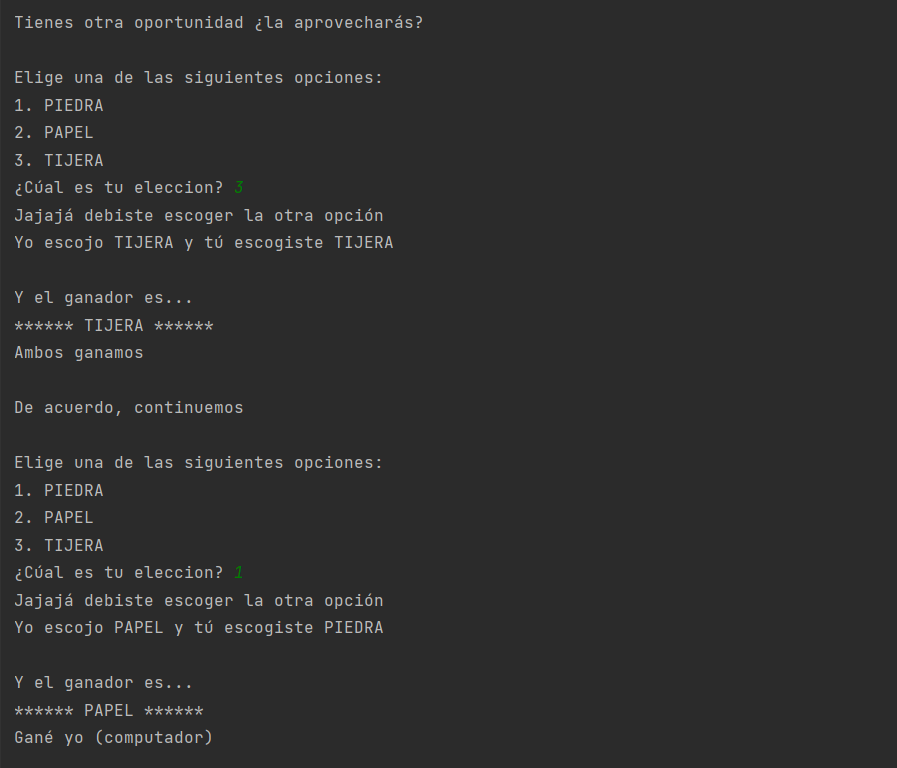
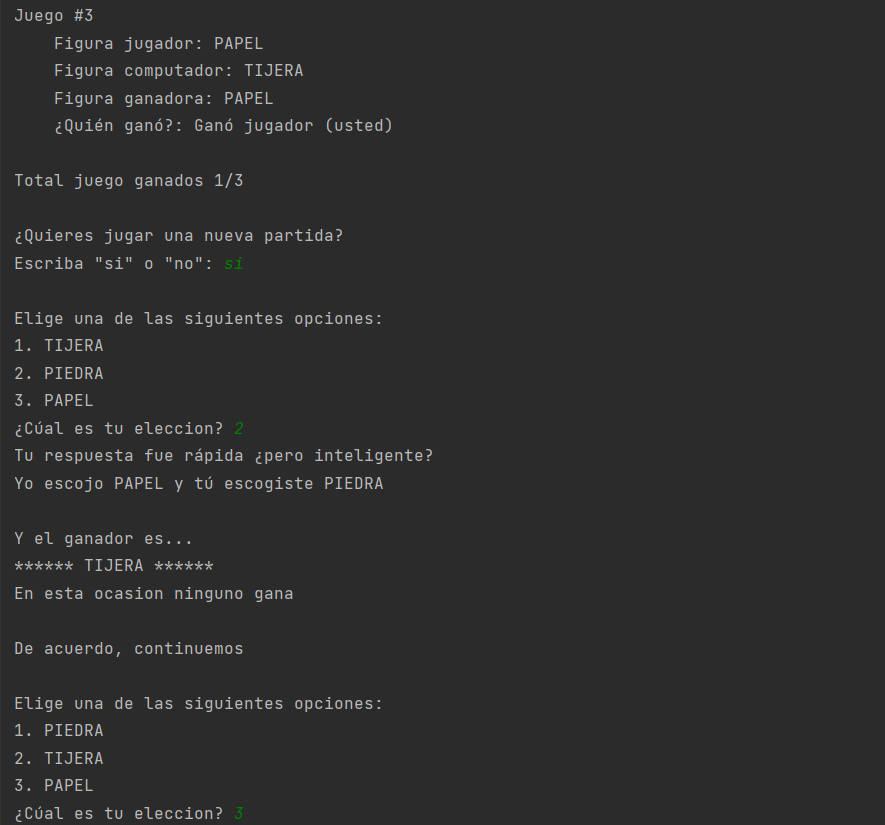
Ajustes al juego, se agrego el historial de las partidas. Juego completamente funcional

Changed region(s): [[0.0, 0.375, 0.4881, 1.0], [0.0, 0.0, 0.4576, 0.3438], [0.3356, 0.0, 0.4576, 0.0625]]

diff --git a/main.py b/main.py
@@ -1,7 +1,9 @@
 import random
-from game_logic import get_winner
+from game_logic import get_winner_and_return_game_round
 
 MIN_GAMES = 3
+
+game_data = []
 
 OPTIONS = ['PIEDRA', 'PAPEL', 'TIJERA']
 
@@ -45,12 +47,26 @@ def print_creation_information():
     print(''.center(len(by) + 30, '*'))
 
 
-def is_user_want_continue_playing():
-    print('\n\u00bfQuieres jugar de nuevo?')
+def print_game_data():
+    total_game_wom = 0
+    for data in game_data:
+        print(f'Juego #{data["total_games"]}\n\tFigura jugador: {data["option_user"]}\n\tFigura computador: {data["option_computer"]}\n\tFigura ganadora: {data["winner"]}\n\t\u00bfQui\u00e9n gan\u00f3?: {data["round_winner"]}')
+        if data["is_user_winner"]:
+            total_game_wom += 1
+
+    print(f'\nTotal juego ganados {total_game_wom}/{len(game_data)}')
+
+
+def is_user_want_continue_playing(message):
+    print(f'\n{message}')
     user_choice = input('Escriba "si" o "no": ').upper()
     if user_choice != "SI":
         return False
     return True
+
+
+def game_reset():
+    game_data.clear()
 
 
 def get_option_user():
@@ -75,7 +91,7 @@ def get_option_user():
 
     print(random.choice(phrases_option))
 
-    get_winner(option_user=choice)
+    game_data.append(get_winner_and_return_game_round(option_user=choice, games_played=len(game_data)))
 
 
 def game_reload():
@@ -85,6 +101,11 @@ def game_reload():
             print(random.choice(phrases_continue))
         get_option_user()
         games_played += 1
+    else:
+        if is_user_want_continue_playing('\u00bfQuieres seguir jugando en esta misma partida?'):
+            return game_reload()
+        print_game_data()
+        game_reset()
 
 
 if __name__ == '__main__':
@@ -92,7 +113,7 @@ if __name__ == '__main__':
     game_reload()
     continue_playing = True
     while continue_playing:
-        if not is_user_want_continue_playing():
+        if not is_user_want_continue_playing('\u00bfQuieres jugar una nueva partida?'):
             print_creation_information()
             break
         game_reload()

diff --git a/game_logic.py b/game_logic.py
@@ -16,9 +16,15 @@ def get_figure_random():
     return random.choice(figures)
 
 
-def get_winner(option_user):
+def get_winner_and_return_game_round(option_user, games_played):
+    game_data = {}
     winner = get_figure_random()
     option_computer = get_figure_random()
+
+    game_data.setdefault('winner', winner)
+    game_data.setdefault('option_user', option_user)
+    game_data.setdefault('option_computer', option_computer)
+    game_data.setdefault('total_games', games_played + 1)
 
     print(f'Yo escojo {option_computer} y t\u00fa escogiste {option_user}\n')
     print('Y el ganador es...')
@@ -26,15 +32,25 @@ def get_winner(option_user):
 
     if option_user == winner == option_computer:
         print(f'Ambos ganamos')
+        game_data.setdefault('round_winner', 'Ambos ganaron (computador y jugador)')
+        game_data.setdefault('is_user_winner', True)
     elif option_user == winner:
         print(f'Ganaste t\u00fa')
+        game_data.setdefault('round_winner', 'Gan\u00f3 jugador (usted)')
+        game_data.setdefault('is_user_winner', True)
     elif option_computer == winner:
         print(f'Gan\u00e9 yo (computador)')
+        game_data.setdefault('round_winner', 'Gan\u00f3 el computador')
+        game_data.setdefault('is_user_winner', False)
     else:
         print(f'En esta ocasion ninguno gana')
+        game_data.setdefault('round_winner', 'Ninguno gan\u00f3')
+        game_data.setdefault('is_user_winner', False)
     print()
+
+    return game_data
 
 
 if __name__ == '__main__':
     for data in range(10):
-        get_winner('PAPEL')
+        get_winner_and_return_game_round('PAPEL')
